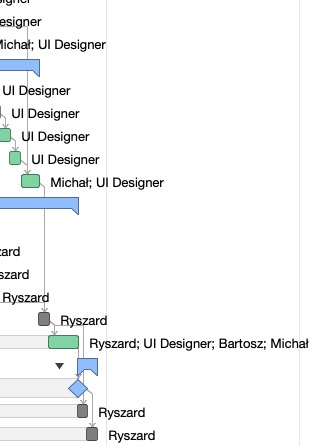
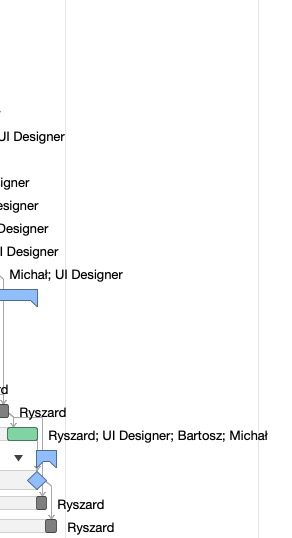
new version

Changed region(s): [[0.0, 0.0, 0.9555, 1.0], [0.2158, 0.0, 0.2466, 0.0583]]

diff --git a/gantt.html b/gantt.html
@@ -33,8 +33,12 @@
             <h1>Widelab WWW 2023: <span class="subtitle">Gantt Chart</span></h1>
           <div class="tablewrap">  <table border="0" cellspacing="0" cellpadding="0">
 <tr>
-	<td><img src="include/gantt0,0.jpg?nocacheTag=934385537" border=0/></td>
-	<td><img src="include/gantt1,0.jpg?nocacheTag=1801284740" border=0/></td>
+	<td><img src="include/gantt0,0.jpg?nocacheTag=-970037802" border=0/></td>
+	<td><img src="include/gantt1,0.jpg?nocacheTag=1349796118" border=0/></td>
+</tr>
+<tr>
+	<td><img src="include/gantt0,1.jpg?nocacheTag=1113551120" border=0/></td>
+	<td><img src="include/gantt1,1.jpg?nocacheTag=-1522580586" border=0/></td>
 </tr>
 </table>
 </div>
